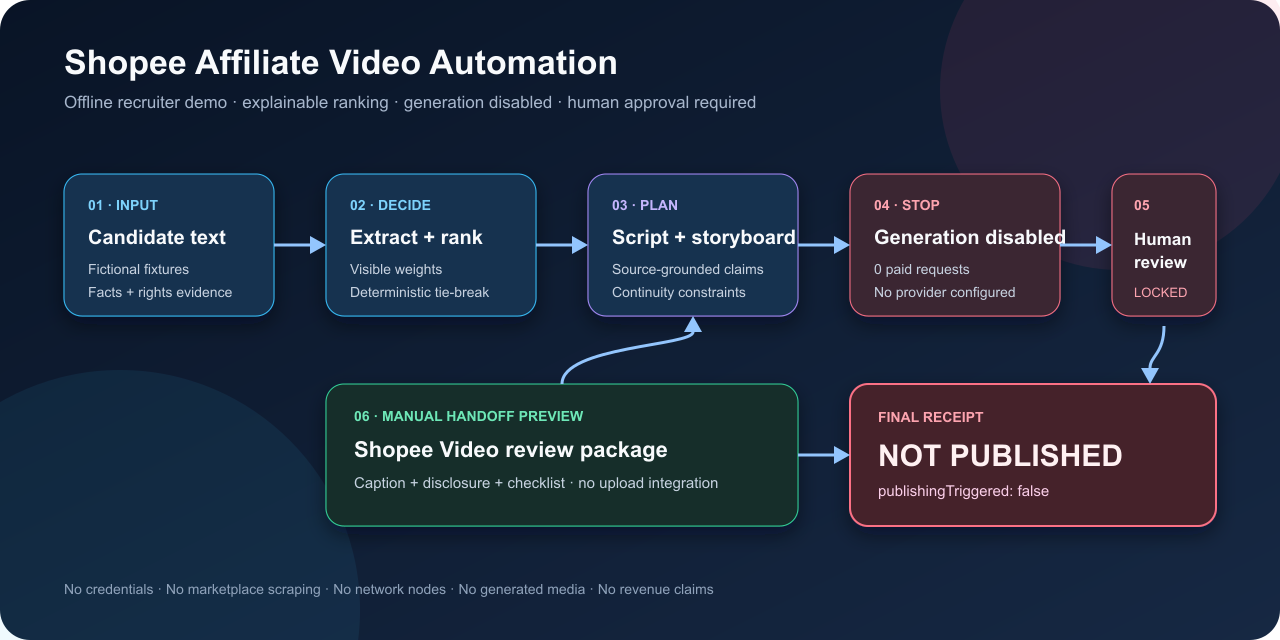
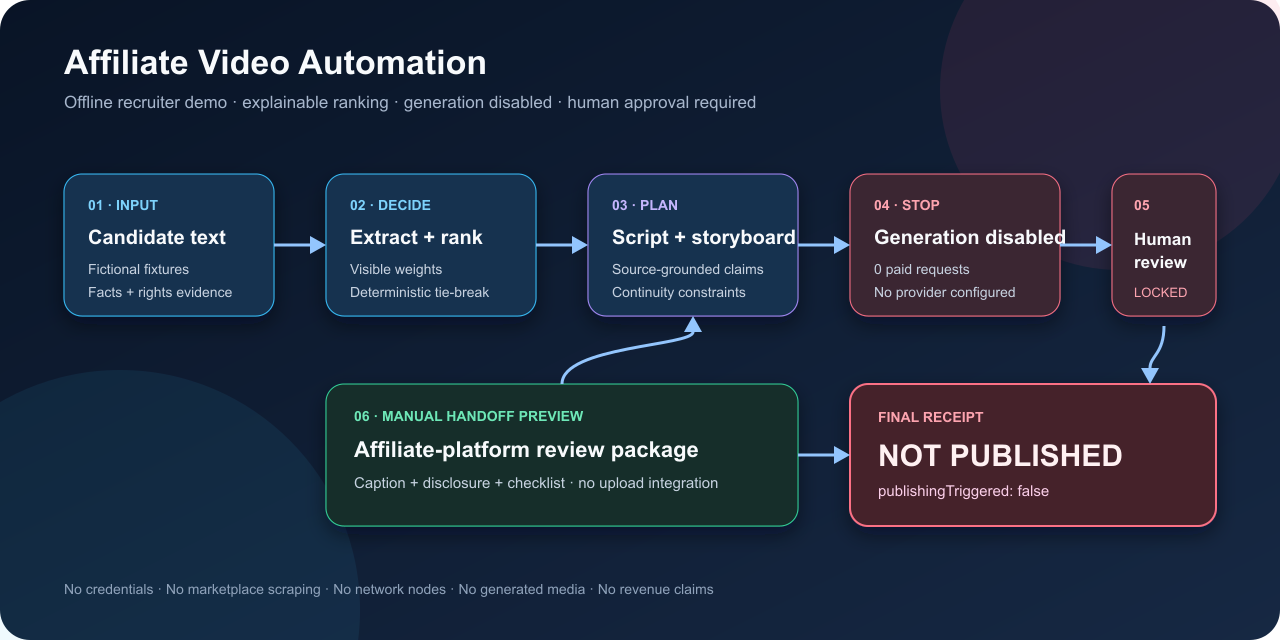
Generalize affiliate video workflow

Changed region(s): [[0.0312, 0.0625, 0.5, 0.125], [0.2812, 0.6875, 0.5625, 0.7188]]

diff --git a/workflow_code/load_fixtures.js b/workflow_code/load_fixtures.js
@@ -21,6 +21,7 @@ const candidates = [
     ImageRightsEvidence: 'fictional-demo-asset',
     ReferenceAsset: 'fictional://commuter-rain-cover',
     Disclosure: '#ad #Affiliate',
+    TargetPlatform: 'affiliate_network',
     ScoringMonth: 8
   },
   {
@@ -45,6 +46,7 @@ const candidates = [
     ImageRightsEvidence: 'fictional-demo-asset',
     ReferenceAsset: 'fictional://travel-tumbler',
     Disclosure: '#ad #Affiliate',
+    TargetPlatform: 'affiliate_network',
     ScoringMonth: 8
   },
   {
@@ -69,6 +71,7 @@ const candidates = [
     ImageRightsEvidence: 'fictional-demo-asset',
     ReferenceAsset: 'fictional://backpack-cover',
     Disclosure: '#ad #Affiliate',
+    TargetPlatform: 'affiliate_network',
     ScoringMonth: 8
   }
 ];

diff --git a/workflow_code/build_handoff.js b/workflow_code/build_handoff.js
@@ -4,7 +4,7 @@ return [{
   json: {
     ...input,
     Handoff: {
-      Platform: 'shopee_video',
+      Platform: input.TargetPlatform || 'affiliate_network',
       Mode: 'MANUAL_REVIEW_PACKAGE',
       DirectPostingEnabled: false,
       VideoAttached: false,

diff --git a/README.md b/README.md
@@ -1,6 +1,6 @@
-# Shopee Affiliate Video Automation
+# Affiliate Video Automation
 
-> A recruiter-friendly n8n demo that turns user-supplied product details into an explainable product ranking, source-grounded short-form script, storyboard, and locked Shopee Video handoff preview.
+> A recruiter-friendly n8n demo that turns user-supplied product details into an explainable product ranking, source-grounded short-form script, storyboard, and locked affiliate-platform handoff preview.
 
 [![n8n](https://img.shields.io/badge/built%20with-n8n-EA4B71.svg)](https://n8n.io/) [![Demo](https://img.shields.io/badge/demo-offline%20and%20credential--free-2D6A4F.svg)](docs/demo-guide.md) [![Generation](https://img.shields.io/badge/video%20generation-disabled-6B7280.svg)](docs/architecture.md) [![License: MIT](https://img.shields.io/badge/license-MIT-0B7F5C.svg)](LICENSE)
 
@@ -12,7 +12,7 @@ The project demonstrates an automation pattern for affiliate content operations 
 
 1. Follow the architecture diagram from fictional product text to the locked handoff preview.
 2. Scan the [business controls](#business-controls) and [design decisions](#design-decisions).
-3. Open the [importable n8n workflow](workflows/shopee-affiliate-video-demo.json) or read the [architecture notes](docs/architecture.md).
+3. Open the [importable n8n workflow](workflows/affiliate-video-automation-demo.json) or read the [architecture notes](docs/architecture.md).
 4. See the [verification record](docs/verification.md) for the exact checks run.
 
 Running n8n is optional. The repository includes an offline test harness that executes the same JavaScript embedded in the workflow.
@@ -38,7 +38,7 @@ This workflow makes each decision visible. Product selection is deterministic an
 4. **Create the content plan.** Build a hook-proof-CTA script, one-shot storyboard, continuity constraints, and a provider-neutral video prompt.
 5. **Stop before generation.** Record a disabled generation adapter with zero paid calls.
 6. **Require human review.** Block publishing until facts, rights, affiliate disclosure, product fidelity, and final media are reviewed.
-7. **Prepare a Shopee Video preview.** Produce a manual handoff package and end at `NOT_PUBLISHED`.
+7. **Prepare an affiliate-platform preview.** Produce a configurable manual handoff package and end at `NOT_PUBLISHED`.
 
 ## What this demonstrates
 
@@ -50,7 +50,7 @@ This workflow makes each decision visible. Product selection is deterministic an
 | AI video can alter product details | Add continuity anchors, forbidden changes, and mandatory final-media review |
 | Paid generation needs a boundary | Keep the adapter disabled and report zero submitted requests |
 | Affiliate content needs disclosure | Include disclosure in the script and handoff checklist |
-| Platform posting is not yet integrated | End in a manual Shopee Video package marked `NOT_PUBLISHED` |
+| Platform posting is not yet integrated | End in a manual affiliate-platform package marked `NOT_PUBLISHED` |
 
 ## Business controls
 
@@ -98,8 +98,8 @@ Expected final status:
 ### Option 2: import into n8n
 
 1. Use n8n 2.x.
-2. Import [`workflows/shopee-affiliate-video-demo.json`](workflows/shopee-affiliate-video-demo.json).
-3. Open **Shopee Affiliate Video Automation — Offline Recruiter Demo**.
+2. Import [`workflows/affiliate-video-automation-demo.json`](workflows/affiliate-video-automation-demo.json).
+3. Open **Affiliate Video Automation — Offline Recruiter Demo**.
 4. Select **Execute workflow**.
 5. Inspect **Output — NOT PUBLISHED**.
 
@@ -119,7 +119,7 @@ scripts/build-workflow.mjs                  Builds the importable workflow
 scripts/check-workflow.mjs                  Privacy and structure checks
 tests/workflow.test.mjs                     Offline end-to-end execution
 workflow_code/*.js                          Reviewable n8n Code-node logic
-workflows/shopee-affiliate-video-demo.json  Generated credential-free workflow
+workflows/affiliate-video-automation-demo.json  Generated credential-free workflow
 ```
 
 ## Deliberate limitations
@@ -139,8 +139,8 @@ workflows/shopee-affiliate-video-demo.json  Generated credential-free workflow
 - What evidence should unlock a paid generation node?
 - How would you design an attributable approve/reject step before publishing?
 
-## Trademark and affiliation notice
+## Brand-neutral demo notice
 
-Shopee is a trademark of its respective owner. This independent portfolio project is not affiliated with or endorsed by Shopee. All products, sellers, metrics, URLs, and media references in the demo are fictional.
+This independent portfolio project is not affiliated with or endorsed by any marketplace, social network, affiliate network, or video-generation provider. All products, sellers, metrics, URLs, and media references in the demo are fictional. Production use must follow the current rules of each selected network.
 
 Copyright © 2026 Mark Cruz. Released under the [MIT License](LICENSE).

diff --git a/docs/architecture.md b/docs/architecture.md
@@ -11,7 +11,7 @@ flowchart LR
     E --> F[Script and storyboard]
     F --> G[Generation adapter disabled]
     G --> H[Human review required]
-    H --> I[Shopee Video handoff preview]
+    H --> I[Affiliate-platform handoff preview]
     I --> J[NOT PUBLISHED]
 ```
 
@@ -81,7 +81,7 @@ A production approval should be attributable and should inspect:
 - platform-specific format and tagging;
 - paid-request receipt and estimated cost.
 
-The Shopee Video node prepares only a manual handoff preview. The last node always returns `NOT_PUBLISHED`.
+The affiliate-platform node prepares only a configurable manual handoff preview. The last node always returns `NOT_PUBLISHED`.
 
 ## Production extension points
 
@@ -94,6 +94,6 @@ The safe production sequence is staged:
 5. add a paid generation adapter behind an explicit per-run budget authorization;
 6. add media metadata and product-fidelity QA;
 7. add an attributable approve/reject wait state;
-8. keep Shopee posting manual until an approved publishing integration is available.
+8. keep platform posting manual until an approved network-specific publishing integration is available.
 
 Each stage should be testable independently and should preserve the inactive, zero-cost default.

diff --git a/docs/demo-guide.md b/docs/demo-guide.md
@@ -21,9 +21,9 @@ The top candidate is deterministic because the fixtures, scoring month, weights,
 
 ## Visual n8n demo
 
-1. Download [`shopee-affiliate-video-demo.json`](../workflows/shopee-affiliate-video-demo.json).
+1. Download [`affiliate-video-automation-demo.json`](../workflows/affiliate-video-automation-demo.json).
 2. In n8n, choose **Import from File**.
-3. Open **Shopee Affiliate Video Automation — Offline Recruiter Demo**.
+3. Open **Affiliate Video Automation — Offline Recruiter Demo**.
 4. Select **Execute workflow**.
 5. Follow the colored stage notes from left to right.
 6. Inspect **Output — NOT PUBLISHED**.
